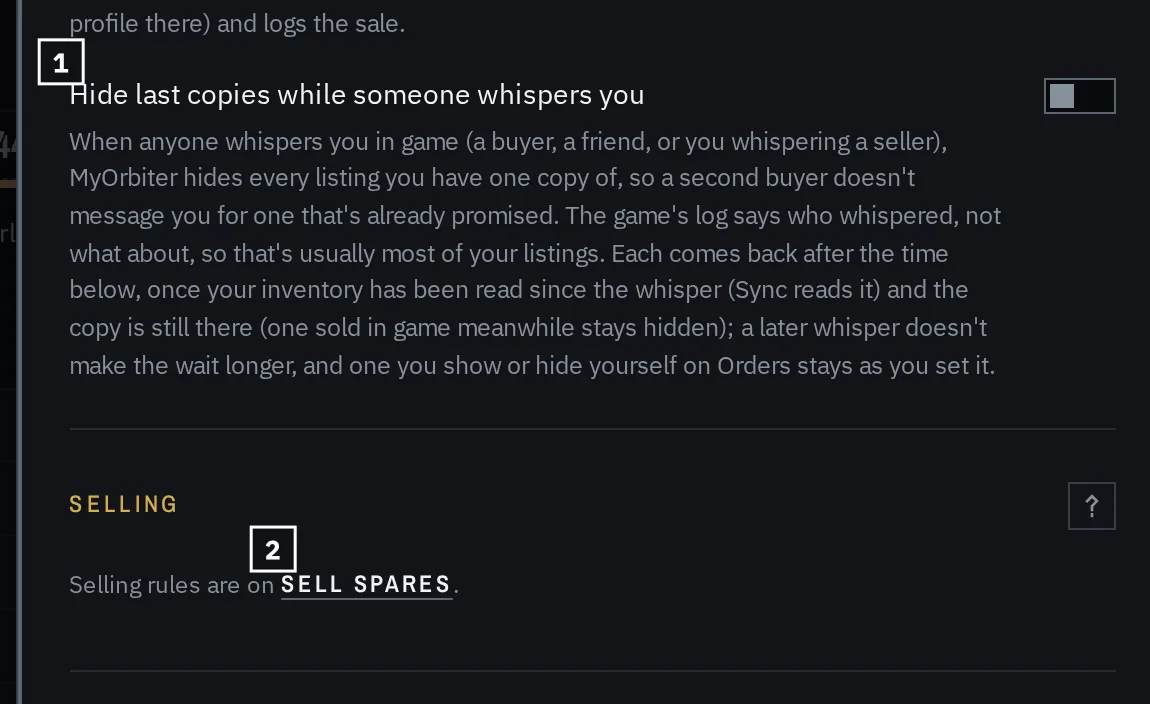
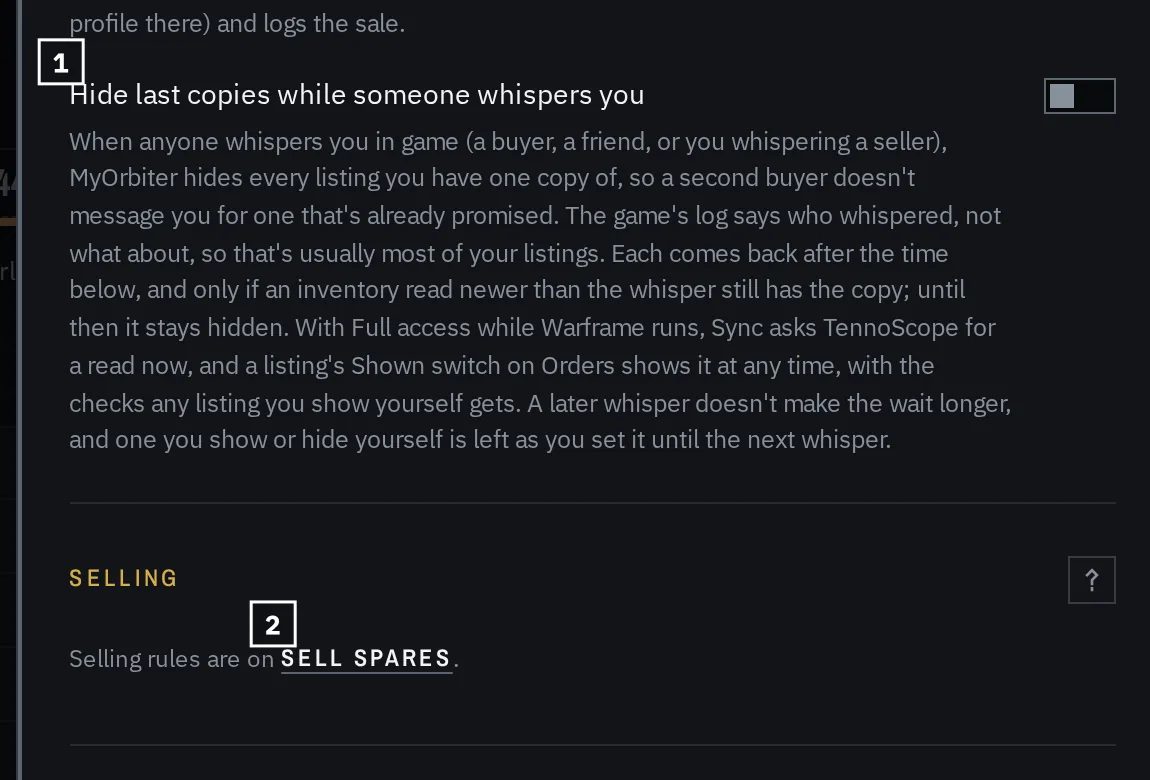
Last copies: the texts say what brings a listing back, in every case
The way back is an inventory read newer than the whisper that still has the copy. Sync is named only for what it does (with Full access while Warframe runs it asks TennoScope for a read now), and the listing's Shown switch on Orders as the way that needs no read. A listing shown or hidden by hand is left until the next whisper. The Still hidden note names four listings and counts the rest; the listing form says how many more copies could be added when 0 is typed; the comment on lastCopy in backend.ts gives the rule. The settings-trades help picture is taken again.

diff --git a/src/lib/SettingsSheet.svelte b/src/lib/SettingsSheet.svelte
@@ -298,7 +298,7 @@
     {#if !onConsole}<Switch name="settings.auto-rep" bind:on={settings.market.autoRep} label="Give +rep by itself after a trade">{AUTO_REP_LINE}</Switch>{/if}
     {#if !onConsole}<Switch name="settings.auto-trades" bind:on={settings.market.autoTrades} label="Mark sales sold from the game">{AUTO_TRADES_LINE}</Switch>{/if}
     {#if !onConsole}<Switch name="settings.hide-last-copies" bind:on={settings.market.lastCopy.optIn} label="Hide last copies while someone whispers you">
-      When anyone whispers you in game (a buyer, a friend, or you whispering a seller), MyOrbiter hides every listing you have one copy of, so a second buyer doesn't message you for one that's already promised. The game's log says who whispered, not what about, so that's usually most of your listings. Each comes back after the time below, once your inventory has been read since the whisper (Sync reads it) and the copy is still there (one sold in game meanwhile stays hidden); a later whisper doesn't make the wait longer, and one you show or hide yourself on Orders stays as you set it.
+      When anyone whispers you in game (a buyer, a friend, or you whispering a seller), MyOrbiter hides every listing you have one copy of, so a second buyer doesn't message you for one that's already promised. The game's log says who whispered, not what about, so that's usually most of your listings. Each comes back after the time below, and only if an inventory read newer than the whisper still has the copy; until then it stays hidden. With Full access while Warframe runs, Sync asks TennoScope for a read now, and a listing's Shown switch on Orders shows it at any time, with the checks any listing you show yourself gets. A later whisper doesn't make the wait longer, and one you show or hide yourself is left as you set it until the next whisper.
     </Switch>
     {#if settings.market.lastCopy.optIn}<label class="field minutes" data-field="settings.last-copy-minutes">
       <span class="register">Hidden for</span>

diff --git a/src/lib/ui/ListDialog.svelte b/src/lib/ui/ListDialog.svelte
@@ -215,7 +215,7 @@
           {:else if noneHere}<p class="err small">You hold none at this {d.maxRank != null ? "rank" : "variant"}: pick one you have.</p>
           {:else if oversell}<p class="err small">You hold {heldHere} at this {d.maxRank != null ? "rank" : "variant"}{merging && existing ? `, ${existing.quantity} listed already` : ""}: you can't list more than that.</p>
           {:else if tooMany}<p class="warn small">{merging && existing ? `You can spare ${d.available} and ${existing.quantity} are listed already, so ${room} more at most.` : `That's more than the ${d.available} you can spare; the rest are copies MyOrbiter keeps back for you.`}</p>{/if}
-          {#if repriceOnly && existing}<p class="small dim">{room === 0 ? `All you can spare is listed already (${existing.quantity} at ${existing.platinum}p).` : "Nothing to add."} This only changes the price{hiddenListing ? ": the listing stays hidden" : ""}.</p>
+          {#if repriceOnly && existing}<p class="small dim">{room === 0 ? `All you can spare is listed already (${existing.quantity} at ${existing.platinum}p).` : room != null ? `No copies added (you could add ${room} more).` : "No copies added."} This only changes the price{hiddenListing ? ": the listing stays hidden" : ""}.</p>
           {:else if hiddenListing}<p class="small dim">Your listing is hidden, and stays hidden with these added: show it on Orders when buyers should see it.</p>{/if}
           {#if underMinimum}<p class="err small">Under your {minimum}p {minimumWords} (Sell spares): MyOrbiter never lists under it. <button type="button" class="link" title="Ask {minimum}p, the minimum" onclick={() => { if (d && minimum != null) d.platinum = minimum; }}>Ask {minimum}p</button></p>
           {:else if underFloor && market}<p class="warn small">Under your {floor}p floor{market.auto ? `: Apply automatically lifts it to at least ${floor}p while anyone in game sells it` : " (Floor on Orders, minimums on Sell spares)"}.</p>

diff --git a/src/lib/tabs/Orders.svelte b/src/lib/tabs/Orders.svelte
@@ -809,7 +809,7 @@
           </span>
         {/each}
         <HelpMark part="orders.whispers" />
-        {#if settings.lastCopy.hidden.length}<span class="dim small" title="The last-copy rule (Settings, Trades): your last copies are hidden while a buyer whispers, so a second buyer doesn't come for the same one. Each comes back after the wait once TennoScope has read your inventory since and the copy is still there; showing or hiding one yourself takes it off the rule">{settings.lastCopy.hidden.length} last cop{settings.lastCopy.hidden.length === 1 ? "y" : "ies"} hidden for now</span>{/if}
+        {#if settings.lastCopy.hidden.length}<span class="dim small" title="The last-copy rule (Settings, Trades): your last copies are hidden while a buyer whispers, so a second buyer doesn't come for the same one. Each comes back after the wait only if an inventory read newer than the whisper still has the copy; with Full access while Warframe runs, Sync asks TennoScope for a read now. To show one sooner, use its Shown switch: the rule then leaves it as you set it until the next whisper">{settings.lastCopy.hidden.length} last cop{settings.lastCopy.hidden.length === 1 ? "y" : "ies"} hidden for now</span>{/if}
       </section>
     {/if}
 

diff --git a/src/App.svelte b/src/App.svelte
@@ -1822,7 +1822,8 @@
     if (untold.length) {
       const names = untold.map((h) => mkt.item(mkt.orders.find((o) => o.id === h.id)?.itemId ?? "")?.name ?? "a listing");
       const one = names.length === 1;
-      mkt.note(`Still hidden: ${names.join(", ")}. ${one ? "It comes" : "They come"} back once your inventory is read again (Sync reads it now) and ${one ? "it's" : "they're"} still there, in case ${one ? "it" : "they"} sold in game meanwhile`, "info");
+      const list = `${names.slice(0, 4).join(", ")}${names.length > 4 ? ` and ${names.length - 4} more` : ""}`;
+      mkt.note(`Still hidden: ${list}. ${one ? "It comes back only if an inventory read newer than the whisper still has the copy" : "Each comes back only if an inventory read newer than the whisper still has its copy"}. With Full access while Warframe runs, Sync asks TennoScope for a read now. To show ${one ? "it" : "one"} sooner, use ${one ? "its" : "the listing's"} Shown switch on Orders (never-sell, the minimum and the copies held still count)`, "info");
     }
     if (!show.length) {
       if (keep.length !== lc.hidden.length) settings.market.lastCopy.hidden = keep;

diff --git a/src/lib/marketStore.svelte.ts b/src/lib/marketStore.svelte.ts
@@ -987,7 +987,7 @@ class MarketStore {
       for (const [i, o] of orders.entries()) {
         const done = await this.setShown([o], true, false);
         shown += done.length;
-        // Shown by hand: the last-copy rule leaves it alone from now on.
+        // Shown by hand: the last-copy rule leaves it alone until a later whisper hides it again.
         this.forgetWhisperHides(done.map((x) => x.id));
         step?.(i + 1, orders.length);
       }
@@ -1028,7 +1028,8 @@ class MarketStore {
     }
     return this.guard("Saving", async () => {
       await market.update(o.id, change);
-      // Shown or hidden by hand: the player's last word, so the last-copy rule leaves it alone.
+      // Shown or hidden by hand: the player's last word, so the last-copy rule leaves it alone
+      // until a later whisper hides it again.
       if (change.visible != null) this.forgetWhisperHides([o.id]);
       // A price you typed is the price you approved, and a change: a pass on the timer leaves it an hour.
       if (change.platinum != null) this.approve(o, change.platinum);

diff --git a/src/lib/backend.ts b/src/lib/backend.ts
@@ -123,8 +123,9 @@ export interface MarketSettings {
   autoRep: boolean;
   /**
    * While someone whispers you, hide listings down to their last copy so a second buyer doesn't
-   * find one already promised; each comes back after `minutes` unless it sold. `hidden`: the ones
-   * MyOrbiter hid, and when.
+   * find one already promised; each comes back after `minutes`, and only if an inventory read
+   * newer than its hide still has the copy (core/lastCopy.ts). `hidden`: the ones MyOrbiter hid,
+   * and when; one shown or hidden by hand leaves it.
    */
   /** optIn, not the first version's `on`: that one was on for everyone, and hid nearly every listing on any whisper. */
   lastCopy: { optIn: boolean; minutes: number; hidden: HiddenForWhisper[] };

diff --git a/src/lib/help/settings.ts b/src/lib/help/settings.ts
@@ -270,7 +270,7 @@ const SETTINGS_TRADES: Walkthrough = {
         "Hide last copies (off to start): any whisper hides each listing you have one copy of.",
         "Selling rules live on Sell spares: sets, veiled rivens, minimum prices.",
         "Back after 10 minutes (or your time) if a newer inventory read has it.",
-        "A later whisper doesn't lengthen the wait; one you show or hide stays so.",
+        "A later whisper doesn't lengthen the wait; showing or hiding one ends its wait.",
       ],
       shot: {
         open: "settings",
